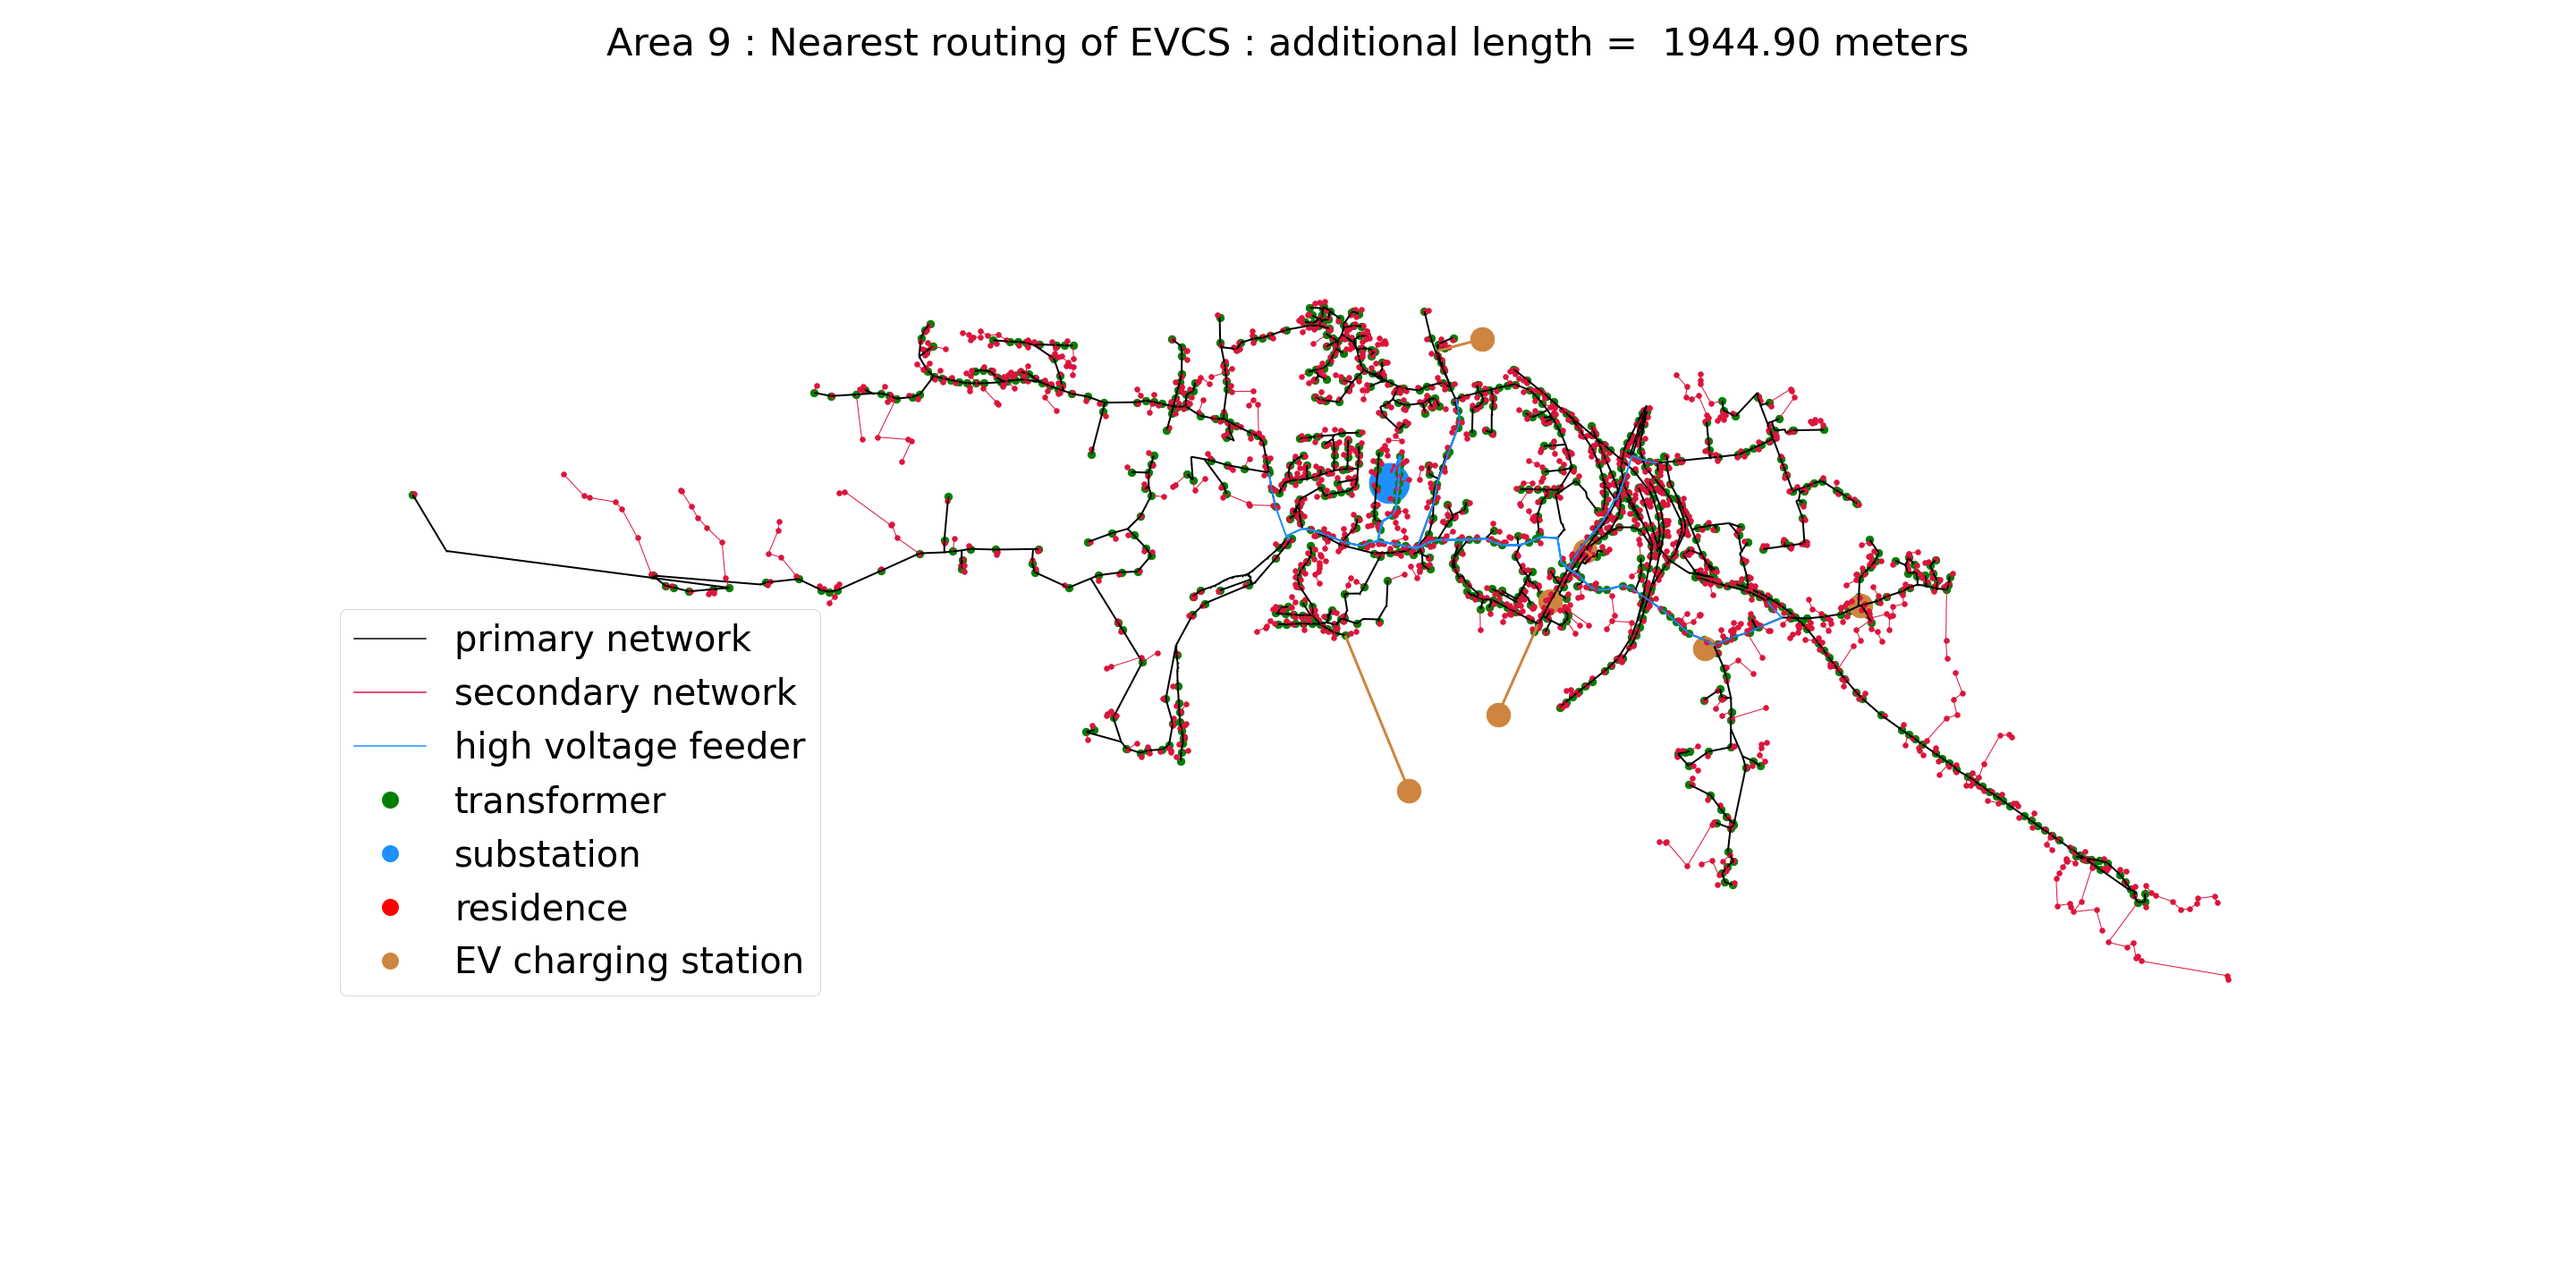
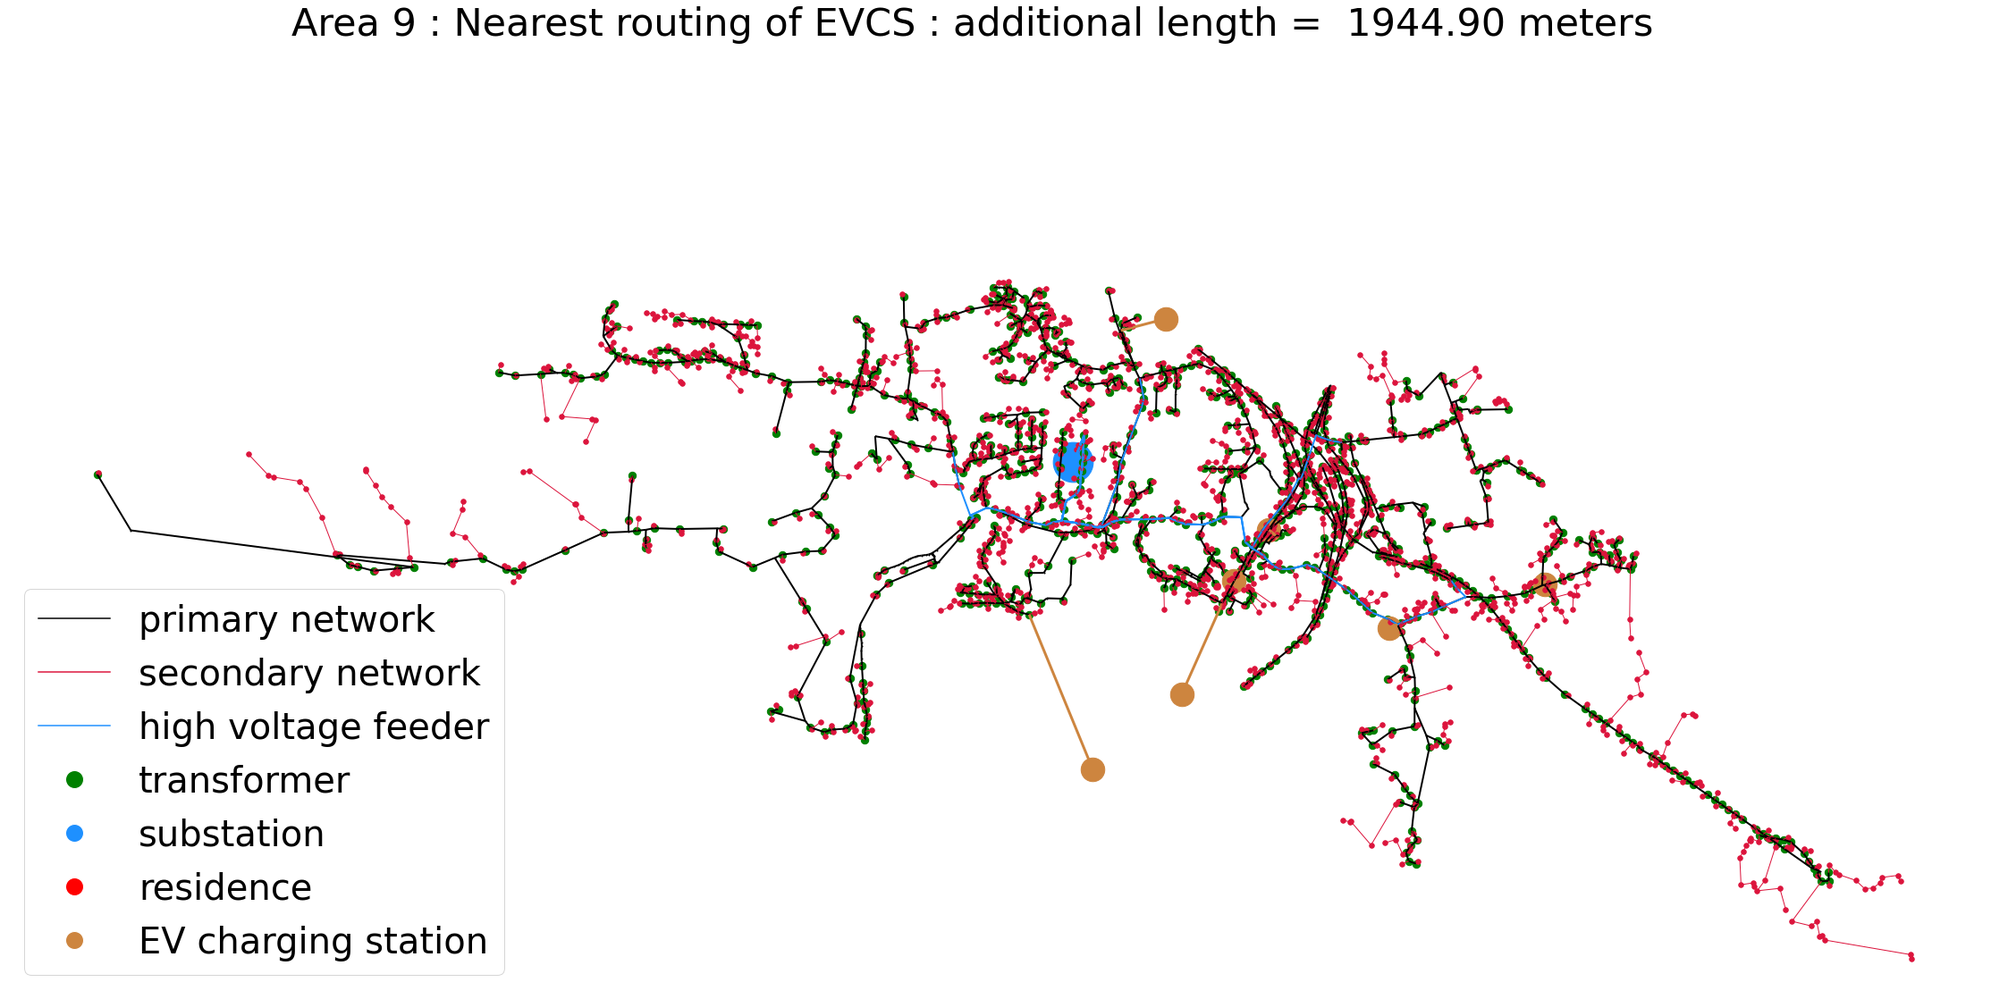
updated results

diff --git a/test-routing.py b/test-routing.py
@@ -16,7 +16,6 @@ fx.plot_synth_net(synth_net,
                   suptitle_sfx = "Synthetic distribution network",
                   to_file = f"{fx.area}_synthetic_net", 
                   show = True, fontsize=40, 
-                  bbox_inches="tight"
                   )
 for conn in ["nearest", "optimal"]:
     synth_net, evcs = fx.read_inputs()
@@ -36,5 +35,4 @@ for conn in ["nearest", "optimal"]:
                       suptitle_sfx = f"{conn.title()} routing of EVCS : additional length = {add : 0.2f} meters",
                       to_file = f"{fx.area}_evcs_{conn}_connection", 
                       show = True, fontsize=40,
-                      bbox_inches="tight"
                       )
